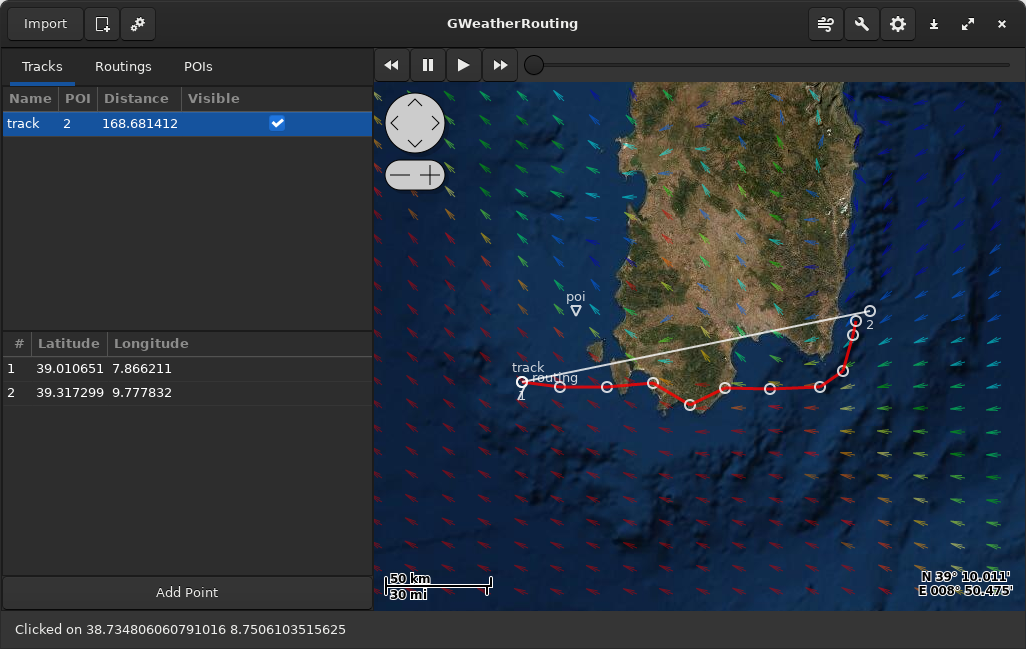
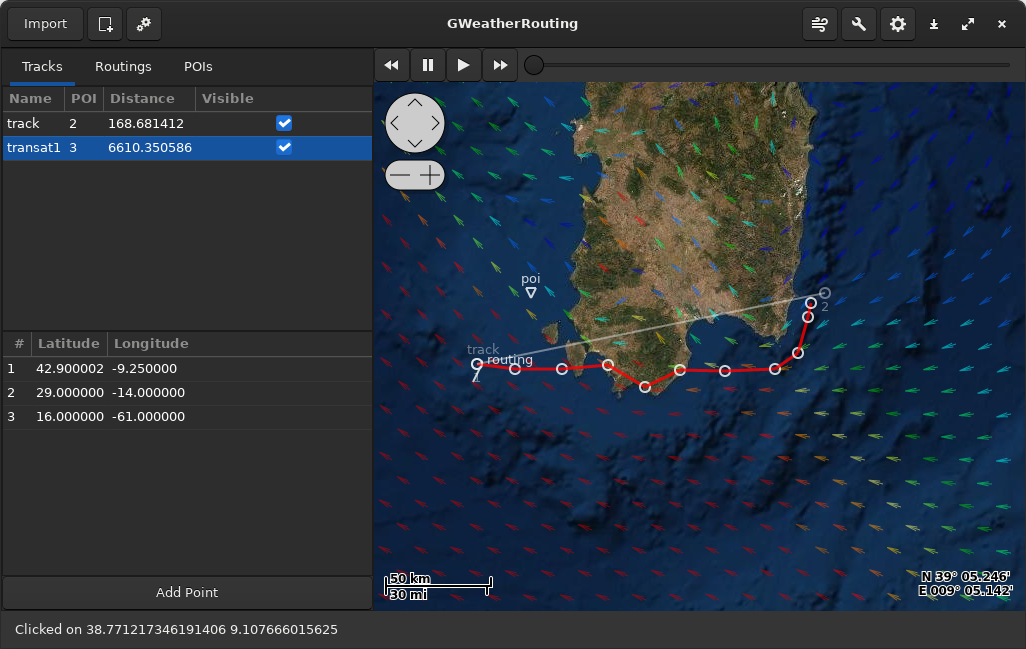
fix readme with installation procedure

diff --git a/README.md b/README.md
@@ -5,10 +5,17 @@ GWeatherRouting is an opensource sailing route calculator written in python/gtk3
 ![Routing in progress](https://github.com/dakk/gweatherrouting/raw/master/media/routing_process.png)
 
 
-## Dependencies
-This software requires:
+## Installation
+
+First, install the following dependencies using your OS package manager:
 - osm-gps-map
 - eccodes
+
+Then checkout the repository and run:
+```sudo python3 setup.py install```
+
+Start the software running:
+```gweatherrouting```
 
 
 ## Planned features
